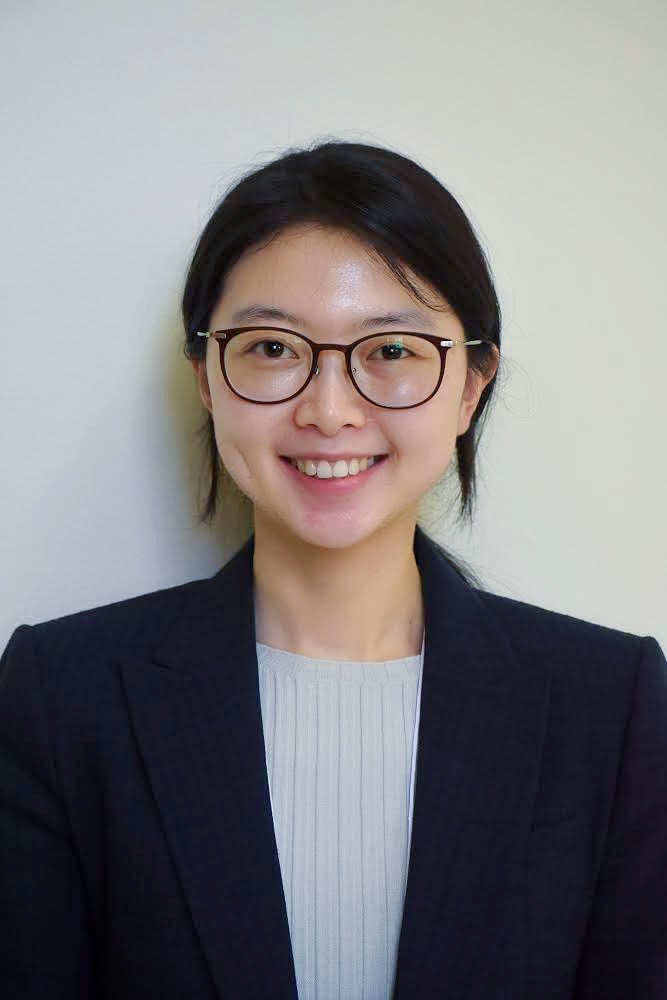
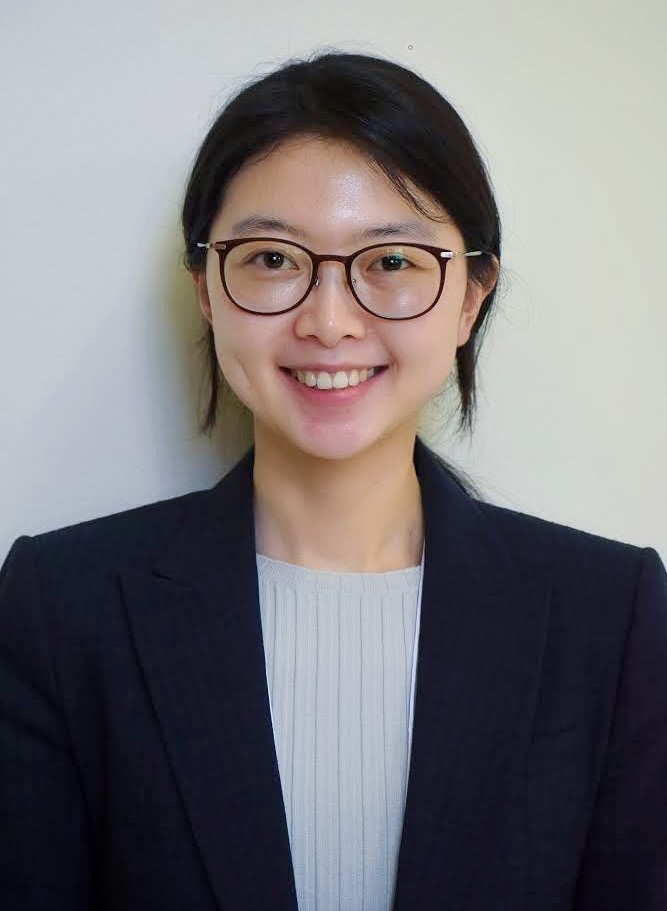
branches am i right:

Changed region(s): [[0.0, 0.0307, 1.0, 0.9221], [0.4198, 0.8606, 0.4498, 0.8913]]

diff --git a/app/templates/pages/bios.html b/app/templates/pages/bios.html
@@ -7,7 +7,7 @@
 <div class="row" style="margin-top: 4.5vh">
     <div class="container">
       <div  style="margin: 8%">
-      <h1 style="font-size: 4vw; text-align: center;">Meet the Team</h1>
+      <h1 style="font-size: 5rem; text-align: center;">Meet the Team</h1>
       <!-- <div class="row">
         {% for institution in institutions%}
         <div class="col-3" style="height: 160px; width: 160px; position: relative;">
@@ -19,9 +19,9 @@
       <div class="container">
         <h1>Faculty</h1>
         {% for person in faculty%}
-          <div class="row jumbotron bio_box container" style="margin-top: 2%; padding: 1%">
-            <div class="col-lg-4 col-md-12 "  style="height: 20rem;" style="position: relative">
-              <img src="{{'static/images' + person['img']}}" class="card-img-top center" alt="...">
+          <div class="row bio_box container" style="margin-top: 2%; padding: 1%">
+            <div class="col-lg-4 col-md-12 img_div"  style="height: 20rem;" style="position: relative">
+              <img src="{{'static/images' + person['img']}}" class="card-img-top" alt="...">
             </div>
             <div class="col-lg-8 col-md-12" style="overflow: hidden;">
               <div class="row">
@@ -40,8 +40,8 @@
       <div class="container">
         {% for person in non_faculty%}
         <div class="row jumbotron bio_box container" style="margin-top: 2%; padding: 1%">
-            <div class="col-lg-4 col-md-12 "  style="height: 20rem;" style="position: relative">
-              <img src="{{'static/images' + person['img']}}" class="card-img-top center"  alt="...">
+            <div class="col-lg-4 col-md-12 img_div"  style="height: 20rem;" style="position: relative">
+              <img src="{{'static/images' + person['img']}}" class="card-img-top" alt="...">
             </div>
             <div class="col-lg-8 col-md-12" style="overflow: hidden;">
               <div class="row">

diff --git a/app/static/main.js b/app/static/main.js
@@ -3,34 +3,27 @@ $(document).ready(function() {
     parent.location.hash = ''
 
 
-    $(".comment").shorten({"showChars" : 700});
+    if ($(window).width() <=  990) {
+        $(".comment").shorten({"showChars" : 70});
+        $(".navbar-brand").html('BD4HE')
+    } else { 
+        $(".comment").shorten({"showChars" : 700});
+        $(".navbar-brand").html('Big Data for Health Equity (BD4HE) Research Collaborative')
+    }
 
     if (scroll_to != "") {
         $('html, body').animate({
             scrollTop:$(scroll_to).offset().top-66
         }, 1000);
     }
-   
-//    $("#sec-2").click(function() {
-//         $('html, body') .animate({
-//             scrollTop:        $("#two").offset().top-112
-//         }, 1000);
-//      return false;
-//     });
-   
-//    $("#sec-3").click(function() {
-//         $(' html,body') .animate({
-//             scrollTop:        $("#three").offset().top-112
-//         }, 1000);
-//      return false;
-//     });
-   
-//    $("#sec-4").click(function() {
-//      $(this).addClass("active");
-//         $('html,body ') .animate({
-//             scrollTop:        $("#four").offset().top-112
-//         }, 1000);
-//      return false;
-//     });
+});
 
+$( window ).resize(function() {
+    if ($(window).width() <=  990) {
+        $(".comment").shorten({"showChars" : 70});
+        $(".navbar-brand").html('BD4HE')
+    } else { 
+        $(".comment").shorten({"showChars" : 700});
+        $(".navbar-brand").html('Big Data for Health Equity (BD4HE) Research Collaborative')
+    }
 });

diff --git a/app/static/main.css b/app/static/main.css
@@ -19,10 +19,18 @@ p {
     font-size:20px;
 }
 
+.img_div {
+    overflow:hidden;
+    min-height: 35rem;
+    object-fit: cover;
+}
+
+
 .card-img-top {
-    object-fit: contain !important;
-    max-width: 100%;
-    max-height: 100%;
+    position: absolute;
+    float: top;
+    top: 0;
+    display: block;
 }
 
 
@@ -37,12 +45,9 @@ p {
 
 .main_box {
     padding-top: 2%;
-    background-color: rgb(10,25,30);
     border-radius: 10px;
     padding: 10px;
-}
-
-#mission_box {
+    color: black;
 }
 
 #site_header{
@@ -128,8 +133,6 @@ br {
     background-color: #12232E;
     margin: 0px;
     overflow: hidden;
-    position: fixed;
-    z-index: -1;
   }
 
 #logo_div {
@@ -137,14 +140,19 @@ br {
     text-align: center;
     color: #dddddd;
     pointer-events:none;
-}
+    position: absolute;
+    left: 0;
+    right: 0;
+    top: 20rem;
+    margin-left: auto;
+    margin-right: auto;}
 
 #logo_div h1 {
     font-size: 7vw;
     text-align: center;
     height: 35vh;
 }
-#logo_div p {
+#logo_div h2 {
     font-size: 3vw;
     text-align: center;
 }
@@ -166,7 +174,7 @@ br {
 }
 
 .navbar {
-    background-color: var(--theme-color);
+    background-color: var(--theme-color) !important;
     color: white !important;
 }
 
@@ -204,8 +212,6 @@ br {
     margin: 10px;
     text-align: center;
 }
-
-
 
 #myCarousel {
   height: 100%;

diff --git a/app/templates/pages/everything.html b/app/templates/pages/everything.html
@@ -6,17 +6,17 @@
     <img src="static/images/logo.PNG">
 </div> -->
 
-<canvas id="dots_window">  
+<!-- <canvas id="dots_window">  
 </canvas>
 
 
 
 <div id="logo_div">
-  <h1 style="font-weight: bold;  font-family: Arial, Helvetica, sans-serif; padding-bottom: 0">Big Data for <br> Health Equity</h1>
-  <h2 class = "center-h" style="font-weight: bold;  font-family: Arial, Helvetica, sans-serif; font-size: 5vw">BD4HE</h2>
+  <h1>Big Data for <br> Health Equity</h1>
+  <h2>BD4HE</h2>
   <br>
-</div>
-<!--  
+</div> -->
+ 
 <div id="myCarousel" class="carousel slide" data-ride="carousel">
     <ul class="carousel-indicators">
       <li data-target="#myCarousel" data-slide-to="0" class="active"></li>
@@ -50,7 +50,7 @@
       <span class="sr-only">Next</span>
     </a>
   </div>
-  </div>  -->
+  </div> 
   <!-- <div class="fadeout" style="position: relative; top: -4.5vh; height: 4.5vh; display: block"></div> -->
 
 
@@ -82,7 +82,6 @@
     <li><p>{{proj}}</p></li>
     {%endfor%}
   </ul>
-  <hr>
   <h1 class='research_banner'>Grant Support</h1>
   <p>
     This research is supported by the National Institute on Minority Health and Health Disparities and the National Library of Medicine of 

diff --git a/app/templates/base.html b/app/templates/base.html
@@ -30,15 +30,9 @@
         </button>
         <div class="collapse navbar-collapse" id="navbarNav">
           <ul class="navbar-nav">
-            <!-- <li class="nav-item">
-                <a class="nav-link" id = "contact_button" href="/#Research">Research</a>
-            </li>
             <li class="nav-item">
-                <a class="nav-link" id = "contact_button" href="/#Grant Support">Grant Support</a>
-            </li>
-            <li class="nav-item">
-                <a class="nav-link" id = "contact_button" href="/#Media Appearances">Media Appearances</a>
-            </li> -->
+                <a class="nav-link" href="/">Home</a>
+              </li>
             <li class="nav-item">
               <a class="nav-link" href="/bios">Meet the Team</a>
             </li>
